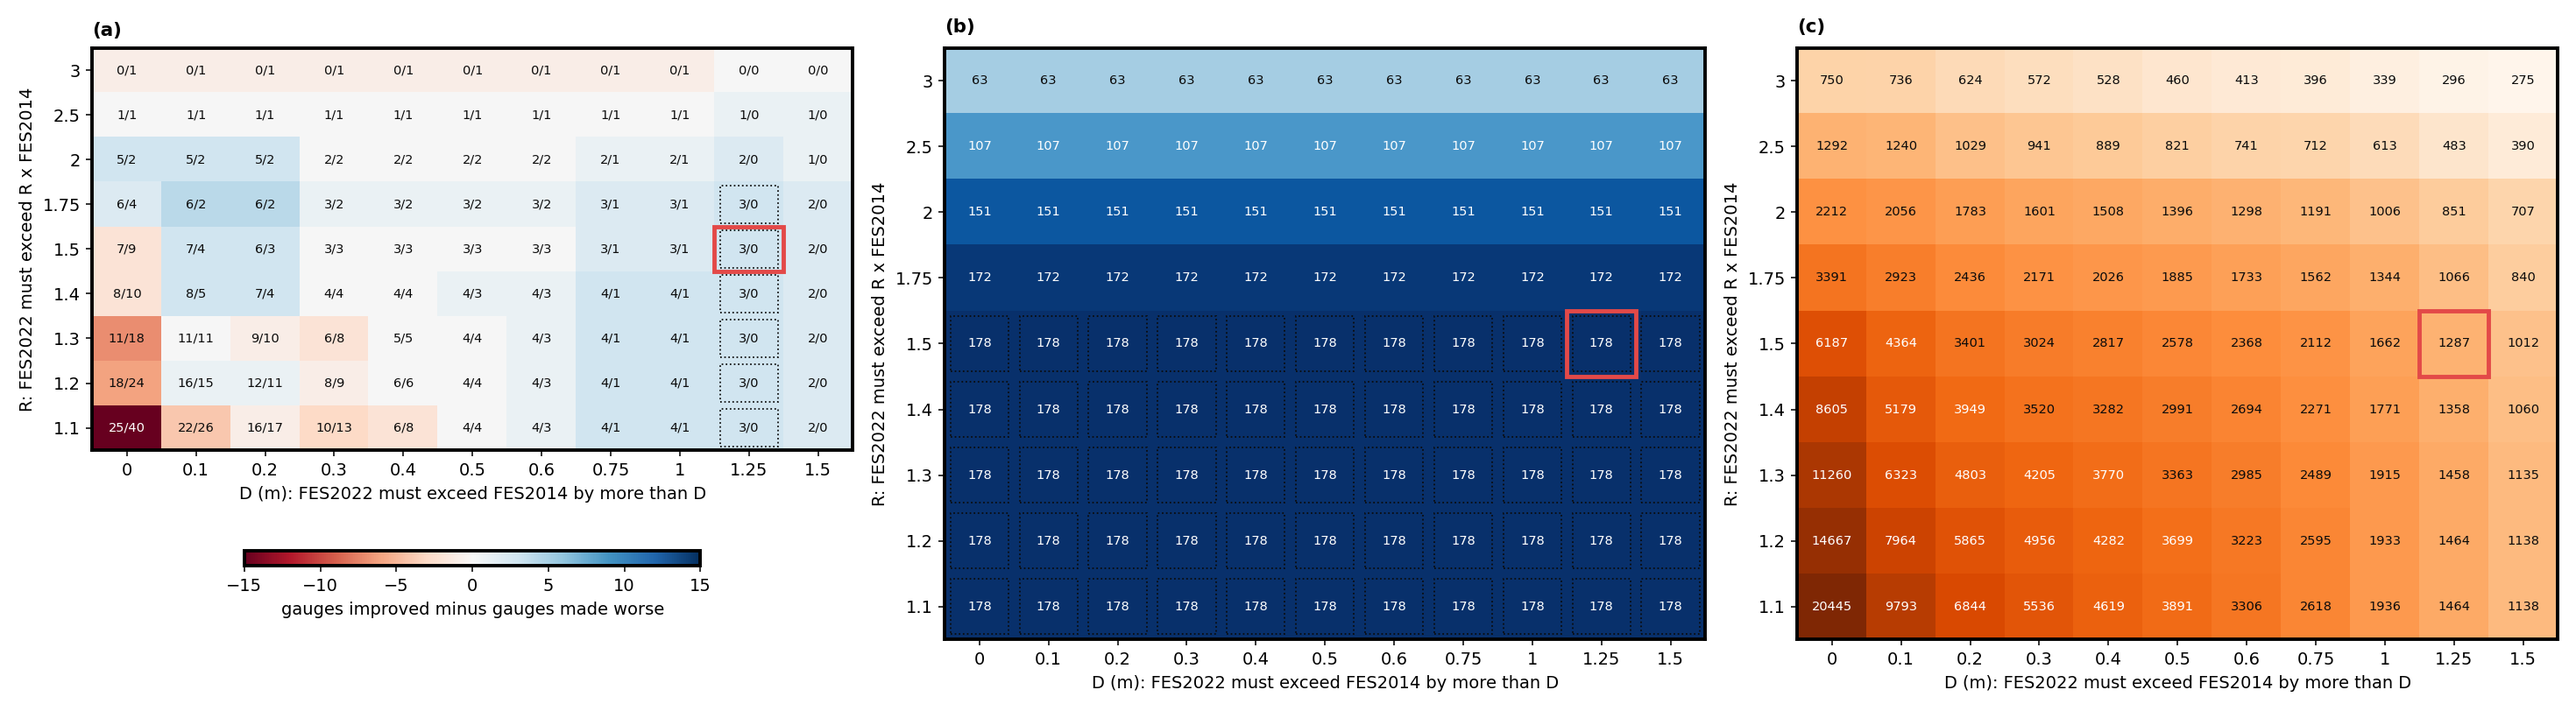
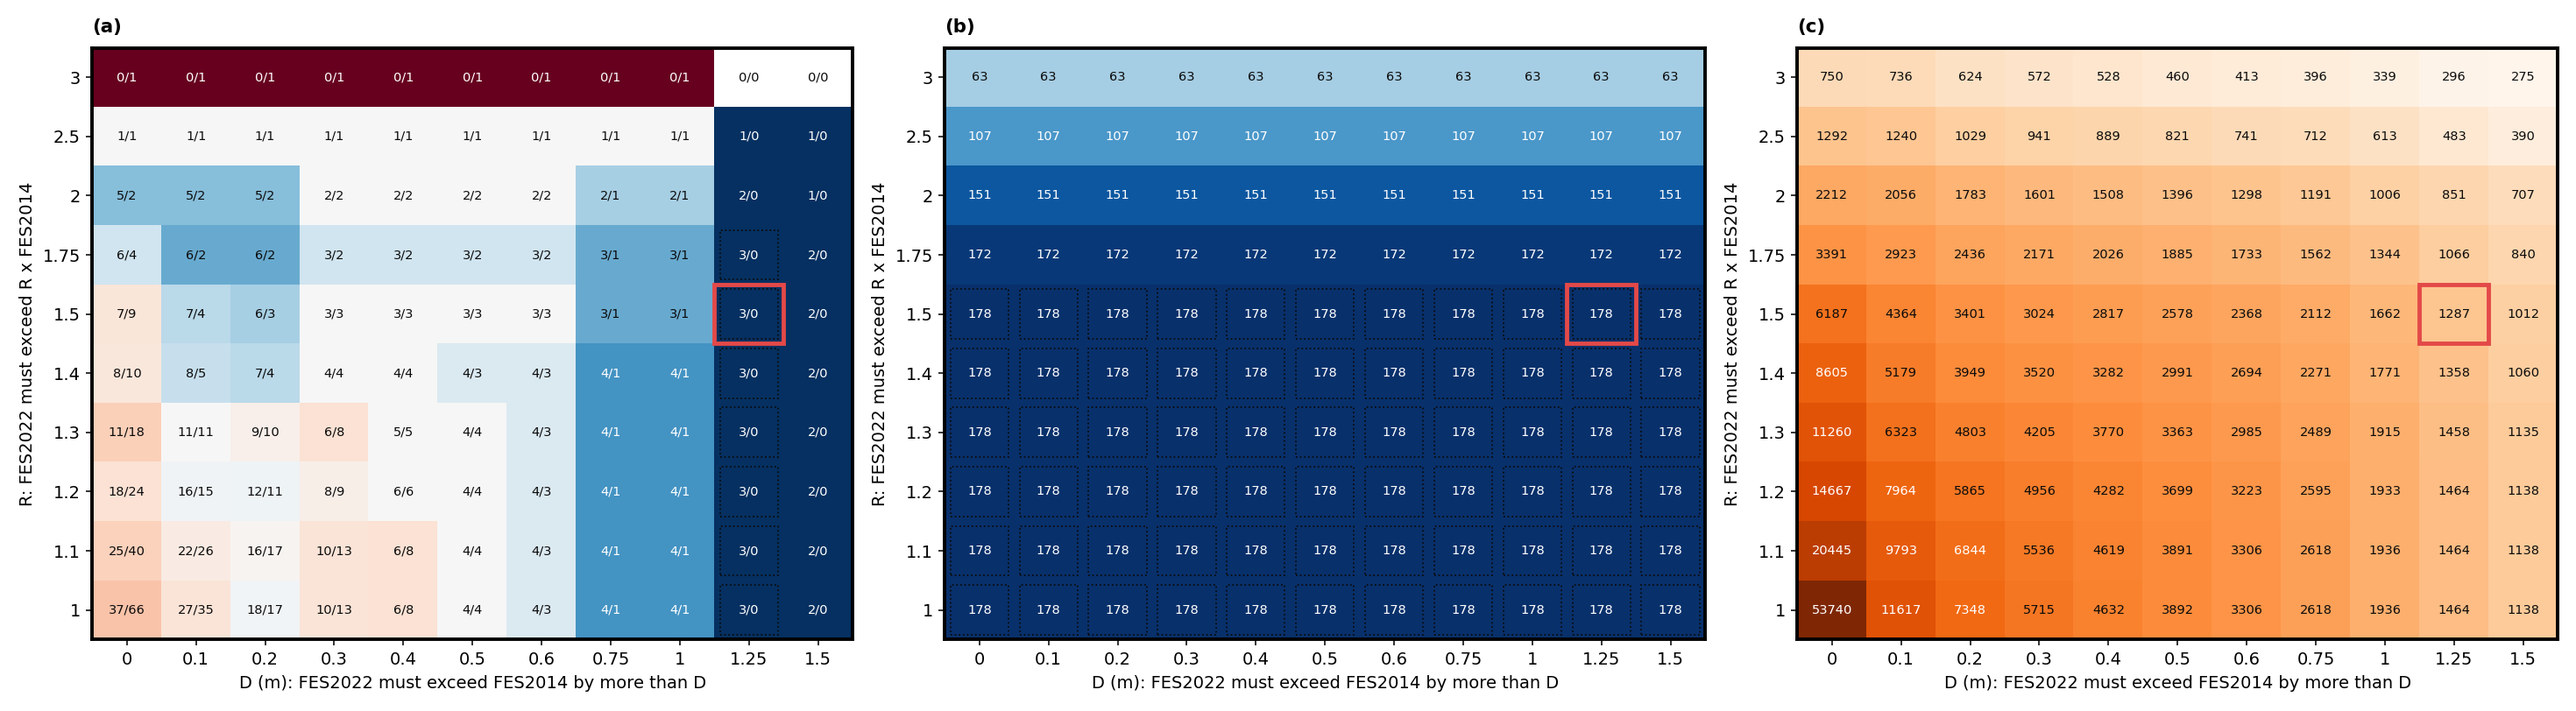
fig06: share of improvements, R = 1 row; fig07: narrower label margin

diff --git a/input_analysis/make_boundary_forcing_figures.py b/input_analysis/make_boundary_forcing_figures.py
@@ -450,7 +450,7 @@ def fig07_coast_rp_regions(out: Path, dest: Path) -> None:
     lo = float(st[["p25_10", "p25_100"]].min().min())
     hi = float(st[["p75_10", "p75_100"]].max().max())
     pad = 0.06 * (hi - lo)
-    fig = plt.figure(figsize=(10.5, 0.25 * ypos + 1.4))
+    fig = plt.figure(figsize=(9.2, 0.25 * ypos + 1.4))
     gs = fig.add_gridspec(1, 2, width_ratios=(1, 0.3), wspace=0.12)
     ax = fig.add_subplot(gs[0, 0])
     for rp, dy in ((10, -0.17), (100, 0.17)):
@@ -471,7 +471,7 @@ def fig07_coast_rp_regions(out: Path, dest: Path) -> None:
     plt.setp(ax2.get_yticklabels(), visible=False)
     _style(ax2)
     draw_panel_letter(ax2, "b")
-    fig.subplots_adjust(left=0.3, right=0.98, bottom=0.65 / (0.25 * ypos + 1.4), top=1 - 0.45 / (0.25 * ypos + 1.4))
+    fig.subplots_adjust(left=0.2, right=0.98, bottom=0.65 / (0.25 * ypos + 1.4), top=1 - 0.45 / (0.25 * ypos + 1.4))
     _save(fig, dest / "fig07_coast_rp_vs_gauges.png")
     st.drop(columns="continent").round(3).to_csv(dest / "fig07_coast_rp_vs_gauges_data.csv")
     describe(dest / "fig07_coast_rp_vs_gauges.png", f"""
@@ -741,7 +741,8 @@ def _heat(ax, grid: pd.DataFrame, col: str, text, cmap, norm, mark=None) -> obje
             level = float(norm(m[i, j]))
             if isinstance(norm, BoundaryNorm):
                 level /= max(norm.Ncmap - 1, 1)
-            dark = abs(level - 0.5) > 0.3 if isinstance(norm, TwoSlopeNorm) else level > 0.6
+            diverging = isinstance(norm, TwoSlopeNorm) or cmap.name in ("RdBu", "RdBu_r")
+            dark = abs(level - 0.5) > 0.3 if diverging else level > 0.6
             ax.text(j, i, text(row), ha="center", va="center", fontsize=7.5, color="white" if dark else INK)
             if mark is not None and mark(row):
                 ax.add_patch(plt.Rectangle((j - 0.42, i - 0.42), 0.84, 0.84, fill=False, edgecolor=INK,
@@ -757,16 +758,14 @@ def _heat(ax, grid: pd.DataFrame, col: str, text, cmap, norm, mark=None) -> obje
 def fig06_rule_sensitivity(out: Path, dest: Path) -> None:
     grid = pd.read_csv(out / "analysis" / "atlas_rule_grid.csv")
     bands = pd.read_csv(out / "analysis" / "atlas_rule_bands.csv", index_col=0)
-    grid["net"] = grid.gauges_fixed - grid.gauges_harmed
+    scored = grid.gauges_fixed + grid.gauges_harmed
+    grid["share_improved"] = (grid.gauges_fixed / scored).where(scored > 0)
     best = int(grid.loc[grid.gauges_harmed == 0, "gauges_fixed"].max())
     known = int(grid.known_total.iloc[0])
     grid["known_share"] = grid.known_caught / known
-    lim = float(grid.net.abs().max())
     fig, axes = plt.subplots(1, 3, figsize=(21, 5.8))
-    im = _heat(axes[0], grid, "net", lambda r: f"{int(r.gauges_fixed)}/{int(r.gauges_harmed)}", plt.get_cmap("RdBu"),
-               TwoSlopeNorm(0, -lim, lim), mark=lambda r: r.gauges_harmed == 0 and r.gauges_fixed == best)
-    cb = fig.colorbar(im, ax=axes[0], orientation="horizontal", pad=0.17, shrink=0.6, aspect=30)
-    cb.set_label("gauges improved minus gauges made worse")
+    _heat(axes[0], grid, "share_improved", lambda r: f"{int(r.gauges_fixed)}/{int(r.gauges_harmed)}",
+          plt.get_cmap("RdBu"), Normalize(0, 1), mark=lambda r: r.gauges_harmed == 0 and r.gauges_fixed == best)
     _heat(axes[1], grid, "known_share", lambda r: f"{int(r.known_caught)}", plt.get_cmap("Blues"), Normalize(0, 1),
           mark=lambda r: r.known_caught == known)
     _heat(axes[2], grid, "nodes_replaced", lambda r: f"{int(r.nodes_replaced)}", plt.get_cmap("Oranges"),
@@ -776,6 +775,7 @@ def fig06_rule_sensitivity(out: Path, dest: Path) -> None:
     fig.tight_layout()
     _save(fig, dest / "fig06_version_rule_sensitivity.png")
     adopted = grid[(grid.ratio == VERSION_RATIO) & (grid.diff_m == VERSION_DIFF_M)].iloc[0]
+    nodes_r1 = int(grid[(grid.ratio == 1.0) & (grid.diff_m == VERSION_DIFF_M)].nodes_replaced.iloc[0])
     band_lines = "; ".join(f"{idx} m: n={int(b.n)}, FES2014 closer at {b.fes2014_closer:.0%}, median gain "
                            f"{b.median_gain_m:+.2f} m" for idx, b in bands.iterrows())
     describe(dest / "fig06_version_rule_sensitivity.png", f"""
@@ -791,8 +791,10 @@ def fig06_rule_sensitivity(out: Path, dest: Path) -> None:
         FES2022 and FES2014. At every gauge where the rule would switch to FES2014, the switch is
         scored against the gauge's own MHWS: an improvement if FES2014 is closer to the gauge than
         FES2022 by more than 5 cm, a worsening if it is further by more than 5 cm. Cell text:
-        improvements / worsenings. Colour: improvements minus worsenings (blue = net better, red =
-        net worse, white = no effect). The gauges with a real FES2022 error (Skagway, Juneau, Port
+        improvements / worsenings. Colour: the share of improvements among the scored switches,
+        improvements / (improvements + worsenings): dark blue = every switch improves, white = as
+        many worsen as improve, dark red = every switch worsens. Cells where the rule switches no
+        gauge by more than 5 cm either way stay white. The gauges with a real FES2022 error (Skagway, Juneau, Port
         Alberni) are the improvements to be had; Trondheim, where FES2014 is wrong, is the main
         worsening to avoid. Dotted squares: pairs with no worsening and the most improvements
         ({best}).
@@ -813,9 +815,13 @@ def fig06_rule_sensitivity(out: Path, dest: Path) -> None:
 
         Reading off the adopted values: (a) leaves the dotted pairs in the column D = 1.25 m (no
         worsening, all {best} improvements; at D <= 1 m Trondheim is switched wrongly, at D = 1.5 m
-        Port Alberni is no longer caught). (b) leaves R <= 1.5 (higher R misses artefacts). Of the
-        pairs left, R = 1.5 is the largest, i.e. the one that changes the fewest other nodes
-        (c). At the adopted pair: {int(adopted.gauges_fixed)} improvements,
+        Port Alberni is no longer caught). (b) leaves R <= 1.5 (higher R misses artefacts). The
+        row R = 1 switches the ratio condition off, so only D decides: from R = 1 to R = 1.5 panels
+        (a) and (b) are identical, i.e. the ratio changes nothing at the gauges or at the known
+        artefacts. It only changes how many other nodes are switched (c: {nodes_r1:,} at R = 1,
+        {int(adopted.nodes_replaced):,} at R = {VERSION_RATIO}, for D = {VERSION_DIFF_M} m). R is
+        therefore a precaution for coasts without evidence, not a value the data pin down; R = 1.5
+        is the largest ratio that still replaces every known artefact. At the adopted pair: {int(adopted.gauges_fixed)} improvements,
         {int(adopted.gauges_harmed)} worsenings, {int(adopted.known_caught)} of {known} artefacts
         replaced.
 

diff --git a/boundary_test/atlas_rule_sensitivity.py b/boundary_test/atlas_rule_sensitivity.py
@@ -31,7 +31,7 @@ from atlas_check import BASINS  # noqa: E402
 
 VERSION_RATIO = 1.5
 VERSION_DIFF_M = 1.25
-RATIOS = (1.1, 1.2, 1.3, 1.4, 1.5, 1.75, 2.0, 2.5, 3.0)
+RATIOS = (1.0, 1.1, 1.2, 1.3, 1.4, 1.5, 1.75, 2.0, 2.5, 3.0)
 DIFFS_M = (0.0, 0.1, 0.2, 0.3, 0.4, 0.5, 0.6, 0.75, 1.0, 1.25, 1.5)
 MARGIN_M = 0.05
 DIFF_BANDS_M = (-np.inf, -0.25, -0.1, 0.1, 0.25, 0.5, 0.75, 1.0, np.inf)
